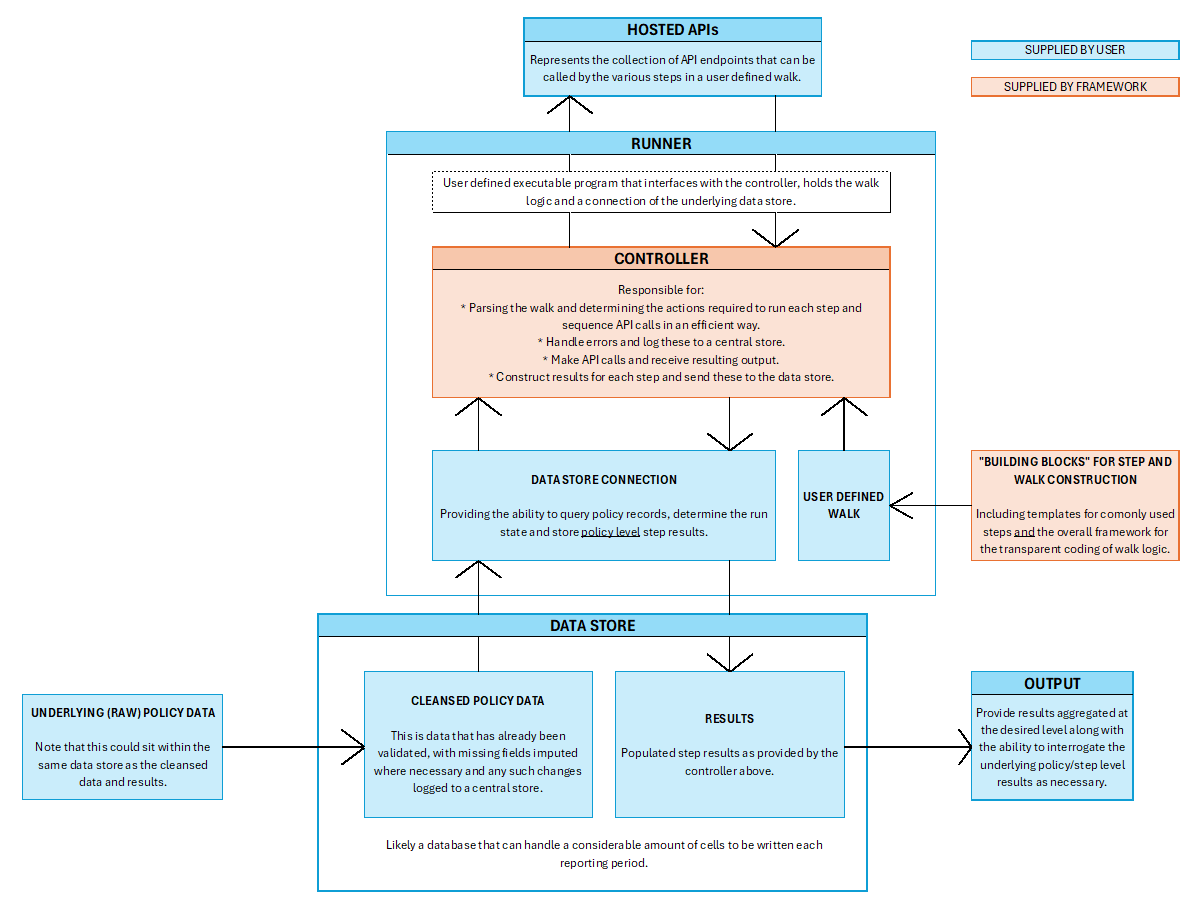
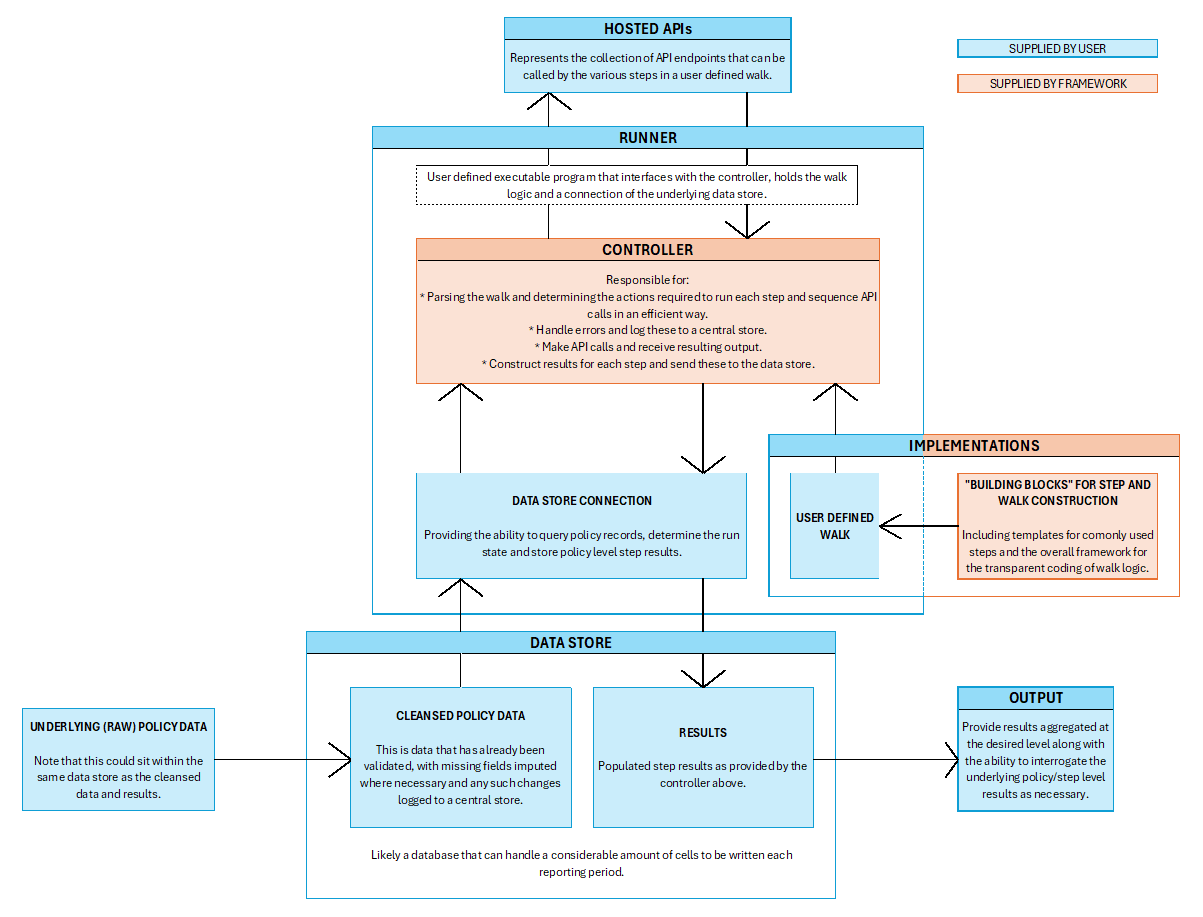
Latest version.

Changed region(s): [[0.0, 0.0, 0.9842, 0.9846], [0.7997, 0.0308, 0.9842, 0.1231]]

diff --git a/README.md b/README.md
@@ -35,7 +35,7 @@ Ideally:
 
 * Users should only care about how each step in the walk is defined, and **not** how the machinery makes it happen.
 * There should be a transparent way of specifying the logic of each step through a combination of user defined functions and code quotations.
-* The number of API calls should be kept to a minimum. Either by re-using already provided values or by requesting as many outputs as needed in each request.
+* The number of API calls should be kept to a minimum. Either by re-using already provided values and/or by grouping requests together where possible.
 
 ### So... What is provided?
 
@@ -50,47 +50,26 @@ The following projects are specific to the walks (and hence likely the corespond
 * **`DataStore.Postgres`** - Provides an interface to an underlying data-store hosted on a Postgres database.
 * **`Runner`** - A user supplied executable that, by bringing together the various aspects above, will phyically run the walk.
 
-### Next steps...
+A visual depiction of this can be found below:
 
+![](Documentation/overall.png)
 
+### What 'mental model' should I be using here?
 
+A **Policy record** represents the information tracked for a given policy such as entry date, life characteristics, etc...
 
+A **walk**, which could be applicable to one or more products within a portfolio, represents an ordered  collection of **steps**. By executing the steps within, it can breakdown the movements of policy related metrics over a specified reporting period.
 
+A **step result metric** represents a piece of information tracked for each policy and step. For a given policy, how these metrics change across consecutive steps is (usually!) of interest.
 
-### What about the steps themselves?
+A **step** might be required as part of the 'contract' needed to specify a valid walk or optionally supplied by the user. A given step might change the machinery's 'view' of a given policy, change how values are calculated for each step result metric, or change which policies are included/excluded entirely.
 
-Although there is no limit to the number of steps in the walk, there _is_ a finite number of step **types** that can appear. Some of these can only be used at specific points (eg. the 'Remove exited business' step seen below). It is these step types that indicate to the machinery what type of action needs to be taken.
+### What terms do I need to know?
 
-All steps implement the `IStepHeader` interface which requires the following information to be made available:
+Below are words/phrases that regularly appear throughout this repository:
 
-| **Member Name** | **.NET Type** | Comments |
-| :-------------: | :-----------: | :------- |
-| `Uid` | `System.Guid` | Duplicate `Uid`s within a walk a not permitted. |
-| `Title` | `System.String` | |
-| `Description` | `System.String` | |
+* **API collection** - Represents a collection of the API requestors as used throughout a given walk.
+* **API requestor** - Represents a request to an specific API-endpoint. Multiple
+* **Policy record structure** - The underlying properties for each policy record processed. For example, policy number and entry date.
+* **Step results structure** - The metrics tracked for each step in the walk. For example, asset share, total premiums paid, claims values, etc...
 
-Outside of this, different step types require different information in order to function, as we will see below.
-
-For the **required** steps, we have:
-
-| **Step** | **`AbstractWalk` Member** | **.NET Type** | **Information Required** |
-| :------: | :-----------------------: | :-----------: | :----------------------- |
-| Opening | `Opening` | `OpeningStep` | None. |
-| Opening re-run | `OpeningRegression` | `SourceChangeStep` | See 'Source Steps' below. |
-| Remove exited business | `RemoveExitedRecords` | `RemoveExitedRecordsStep` | None. |
-| Move to closing existing data | `MoveToClosingExistingData` | `ClosingExistingDataStep` | Optional validation logic. |
-| Add new records | `AddNewRecords` | `AddNewRecordsStep` | Optional validation logic. |
-
-For user supplied interior steps, the only choices are:
-
-| **.NET Type** | **Information Required** |
-| :-----------: | :----------------------- |
-| `SourceChangeStep` | See 'Source Steps' below. |
-| `DataChangeStep` | See 'Data Change Steps' below. |
-
-Ultimately, each step/step type indicates one of the following:
-
-* The opening step in the walk.
-* Change to the current policy record being processed.
-* Change in how the step result metrics are calculated.
-  * This could include changes in metrics 

diff --git a/Common/README.md b/Common/README.md
@@ -15,13 +15,29 @@ All step types implement `IStepHeader` which provides all of:
 * `Title` (`System.String`)
 * `Description` (`System.String`)
 
-Steps generally fall into the following categories:
+Steps _generally_ fall into the following categories:
 
 * Those which change from where values are sourced in order to populate the results for a given step.
 * Those which change the policy data used for a given step.
 * Those which change whether a given policy is included or not.
 
-As for the types themselves:
+Below lists the various step types possible. Note the following legend:
 
-TODO
+* **\(V\)**alidatable
+  * Allows user to optionally supply validation logic.
+  * The information provided depends on the specific step type being validated. In some cases, logic will be provided information relevant to the **C**urrent or **P**revious step.
+  * Each _Step Type_ will have a corresponding member called `Validator` which will have a type signature as per the _Validator Type_ column below. 
+
+  | **Step Type** | **Policy Record** | **Step Results** | **Validator Type** |
+  | :-----------: | :---------------: | :--------------: | :----------------: |
+  | `OpeningStep` | C | C | `OpeningStepValidator` |
+  | `DataChangeStep` | P & C | P & C | `DataChangeStepValidator` |
+  | `SourceChangeStep` | C | P & C | `SourceChangeStepValidator` |
+  | `ClosingExistingDataStep` | P & C | P & C | `DataChangeStepValidator` |
+  | `AddNewRecordsStep` | C | C | `AddNewRecordsStepValidator` |
+
+* **\(S\)ourceable
+  * 
+
+* `OpeningStep` (V) -
 

diff --git a/Implementations/README.md b/Implementations/README.md
@@ -9,11 +9,11 @@ This project provides both:
 
 ### So... How is a walk specified?
 
-Each walk is tightly coupled with the following:
+Each walk is tightly coupled with the following (as defined in the top-level `README`)
 
-* **Step results structure** - The metrics tracked for each step in the walk. For example, asset share, total premiums paid, claims values, etc...
-* **Policy record structure** - The underlying properties for each policy record processed. For example, policy number and entry date.
-* **API collection** - Represents a collection of the API end-points required for the walk.
+* **Step results structure**
+* **Policy record structure**
+* **API collection**
 
 The walk is made aware of the above via generic type parameters (which must therefore be known at compile-time).
 
